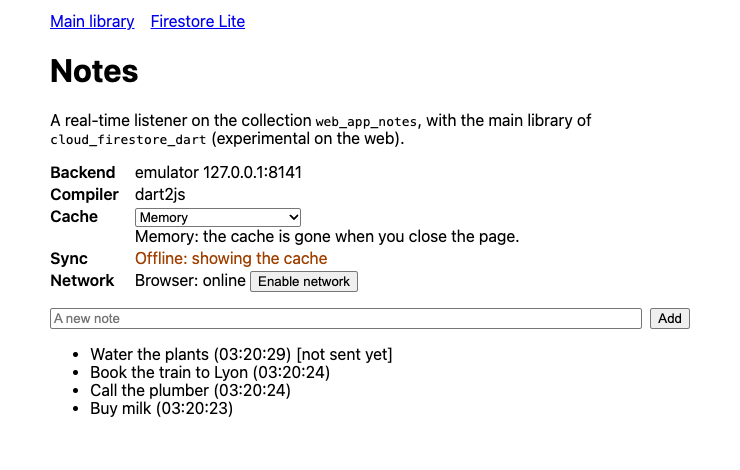
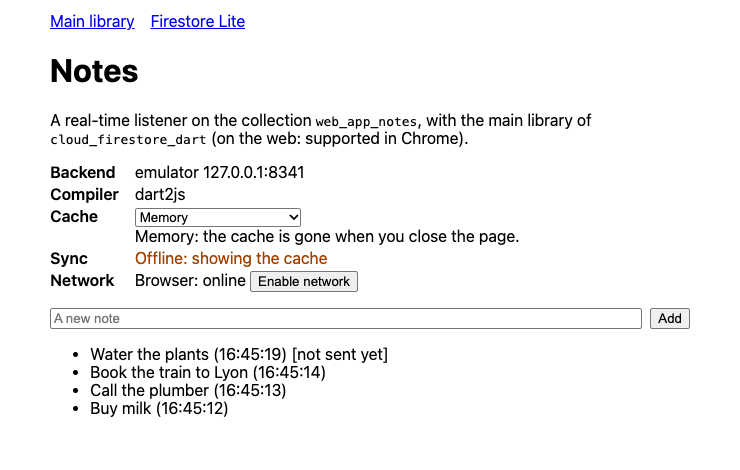
Add dark captures of the example screenshots (#56)
* Add dark captures of the example screenshots

flutter_notes and flutter_web_two_users get a darkTheme from the same
seed, web_app follows prefers-color-scheme. Each app screenshot has a
_dark capture of the same state, shown with <picture> in the docs.

* Re-capture web_app with the current page text

The page now says "on the web: supported in Chrome". Light and dark of
each state come from the same page, so they show the same notes.

---------

Changed region(s): [[0.2176, 0.7149, 0.5284, 0.8936], [0.2797, 0.2681, 0.6216, 0.3277], [0.373, 0.3574, 0.4351, 0.3872]]

diff --git a/examples/flutter_web_two_users/lib/main.dart b/examples/flutter_web_two_users/lib/main.dart
@@ -68,6 +68,10 @@ class TwoUsersApp extends StatelessWidget {
     return MaterialApp(
       title: 'Two users, one page',
       theme: ThemeData(colorSchemeSeed: Colors.indigo),
+      darkTheme: ThemeData(
+        colorSchemeSeed: Colors.indigo,
+        brightness: Brightness.dark,
+      ),
       home: Scaffold(
         appBar: AppBar(
           title: const Text('Two users, one page'),
@@ -312,7 +316,14 @@ class _ClientColumnState extends State<ClientColumn> {
             Text('First snapshot: ${_firstSnapshot ?? '...'}'),
             Text('First from the server: ${_firstFromServer ?? '...'}'),
             if (_error != null)
-              Text(_error!, style: TextStyle(color: Colors.red.shade700)),
+              Text(
+                _error!,
+                style: TextStyle(
+                  color: Theme.of(context).brightness == Brightness.dark
+                      ? Colors.red.shade200
+                      : Colors.red.shade700,
+                ),
+              ),
             const Divider(),
             Text('boards/shared', style: text.titleMedium),
             Text(

diff --git a/examples/web_app/web/styles.css b/examples/web_app/web/styles.css
@@ -8,3 +8,11 @@ form input { flex: 1; }
 .online { color: #186a3b; }
 .offline { color: #a04000; }
 #error { color: #b03a2e; }
+
+/* Dark when the system or browser asks for it; the browser draws the page and controls. */
+:root { color-scheme: light dark; }
+@media (prefers-color-scheme: dark) {
+  .online { color: #7bd88f; }
+  .offline { color: #f5a65b; }
+  #error { color: #ff8a80; }
+}

diff --git a/examples/flutter_notes/lib/main.dart b/examples/flutter_notes/lib/main.dart
@@ -69,6 +69,10 @@ class _NotesAppState extends State<NotesApp> {
     return MaterialApp(
       title: 'Notes',
       theme: ThemeData(colorSchemeSeed: Colors.indigo),
+      darkTheme: ThemeData(
+        colorSchemeSeed: Colors.indigo,
+        brightness: Brightness.dark,
+      ),
       home: NotesPage(firestore: widget.firestore),
     );
   }

diff --git a/examples/flutter_notes/README.md b/examples/flutter_notes/README.md
@@ -23,7 +23,7 @@ The notes are in the collection `notes`, as `{title, body, updatedAt}`.
 This is the app on macOS against a private emulator, with three notes. Look at the status line
 under the title:
 
-![The flutter_notes window on macOS: the status line says "Up to date" and three notes are listed, each with a delete button, and an add button at the bottom right](../../docs/images/examples/flutter_notes_online.png)
+<picture><source media="(prefers-color-scheme: dark)" srcset="../../docs/images/examples/flutter_notes_online_dark.png"><img src="../../docs/images/examples/flutter_notes_online.png" alt="The flutter_notes window on macOS: the status line says &quot;Up to date&quot; and three notes are listed, each with a delete button, and an add button at the bottom right"></picture>
 
 How `main()` wires the pieces together before `runApp`, and what the widgets use afterwards:
 
@@ -63,7 +63,7 @@ To see the offline behaviour, stop the emulator while the app runs: the status l
 This is the same window about 20 seconds after the emulator was stopped. Look at the status line:
 the notes stay, served from the SQLite cache.
 
-![The flutter_notes window with the status line "Offline: showing the saved notes" on a tinted background with a crossed-out cloud icon, and the same three notes](../../docs/images/examples/flutter_notes_offline.png)
+<picture><source media="(prefers-color-scheme: dark)" srcset="../../docs/images/examples/flutter_notes_offline_dark.png"><img src="../../docs/images/examples/flutter_notes_offline.png" alt="The flutter_notes window with the status line &quot;Offline: showing the saved notes&quot; on a tinted background with a crossed-out cloud icon, and the same three notes"></picture>
 
 Start the emulator again: within a few seconds (up to a minute, the client's backoff) the write
 is sent and the line says "Up to date". The emulator keeps its data in memory, so after a restart
@@ -96,7 +96,7 @@ project. To add sign-in, see [Authentication](../../docs/guides/authentication.m
 | Platform | Status |
 | --- | --- |
 | macOS | Built (`flutter build macos --debug`) and run against the emulator by hand: the listener, an edit offline, the sync when the emulator came back, the cache across a restart, and `terminate()` on Cmd-Q. Again with 0.2.0 and `cloud_firestore_dart_sqlite` 0.1.0 (`sqlite3` 3.5.2): the notes loaded, a note added and deleted in the app reached the emulator, the app quit from its menu, and started again with the emulator stopped it showed the notes from its SQLite file (a file first created by the 0.1 build with the copied opener) |
-| macOS, screenshots | Taken with the 0.1 build; the UI did not change in 0.2. `flutter build macos --debug --dart-define=EMULATOR_PORT=8141`, the built app run against a private emulator with three notes written through the emulator's REST API, captured with `screencapture -l` |
+| macOS, screenshots | Taken with the 0.1 build; the UI did not change in 0.2. `flutter build macos --debug --dart-define=EMULATOR_PORT=8141`, the built app run against a private emulator with three notes written through the emulator's REST API, captured with `screencapture -l`. The dark captures (`*_dark.png`, 2026-11-18): the same steps with `--dart-define=EMULATOR_PORT=8341` against `tool/start_private_emulator.sh 8341`, macOS in dark appearance (the app follows it through `darkTheme`), the window set to 640 by 566 points and captured with `screencapture -o -l` on a display at 1x, so the text is smaller than in the light captures; the offline one 25 seconds after the emulator was stopped |
 | Windows | Built with Flutter 3.47.8 on Windows 11 x64 (`flutter build windows --debug`, 84 seconds, no change to the `windows/` folder; `--release` built too, not run) and run against the emulator from an SSH session, driven through its widgets with Marionette: the notes loaded ("Up to date"), a note added in the dialog reached the emulator, and started again with the emulator stopped the app said "Offline: showing the saved notes" and showed it from its SQLite file in `%APPDATA%`. Nobody was logged on at the console, so Flutter could not draw the window (no Direct3D swap chain outside a desktop session) and no screenshot was taken |
 | Android, iOS, Linux | Not built and not run. The platform folders are those of `flutter create` with the changes below |
 

diff --git a/examples/web_app/README.md b/examples/web_app/README.md
@@ -13,7 +13,7 @@ Two pages share one collection, `web_app_notes`:
 This is the main page in headless Chrome against a private emulator, after three notes were
 added. Look at the **Sync** line: the list comes from the backend.
 
-![The main page of web_app: backend emulator, compiler dart2js, cache Memory, Sync "Online: in sync with the backend", and three notes in the list](../../docs/images/examples/web_app_online.png)
+<picture><source media="(prefers-color-scheme: dark)" srcset="../../docs/images/examples/web_app_online_dark.png"><img src="../../docs/images/examples/web_app_online.png" alt="The main page of web_app: backend emulator, compiler dart2js, cache Memory, Sync &quot;Online: in sync with the backend&quot;, and three notes in the list"></picture>
 
 The pieces of the main page, and where each request goes:
 
@@ -34,7 +34,7 @@ What to try:
   and the indicator says the list comes from the cache. Press **Enable network** and it is
   sent. The page then looked like this, with the button already showing **Enable network**:
 
-  ![The same page offline: Sync "Offline: showing the cache", the button reads "Enable network", and the newest note "Water the plants" is marked "[not sent yet]"](../../docs/images/examples/web_app_offline.png)
+  <picture><source media="(prefers-color-scheme: dark)" srcset="../../docs/images/examples/web_app_offline_dark.png"><img src="../../docs/images/examples/web_app_offline.png" alt="The same page offline: Sync &quot;Offline: showing the cache&quot;, the button reads &quot;Enable network&quot;, and the newest note &quot;Water the plants&quot; is marked &quot;[not sent yet]&quot;"></picture>
 
 - Pick **SQLite in IndexedDB** or **SQLite in OPFS**, then reload: the notes are on the page
   before the backend answers, also with the emulator stopped. A note written offline is sent
@@ -98,7 +98,7 @@ special headers are needed (the OPFS cache does not need cross-origin isolation)
 | File | What it is |
 | --- | --- |
 | `web/main.dart`, `web/lite.dart` | The two programs. |
-| `web/index.html`, `web/lite.html`, `web/styles.css` | The pages. |
+| `web/index.html`, `web/lite.html`, `web/styles.css` | The pages, light and dark through `prefers-color-scheme`. |
 | `web/bootstrap.js` | Starts `<app>.dart.js`, or `<app>.mjs` and `<app>.wasm` with `?compiler=wasm`. |
 | `lib/app_config.dart` | The `FirebaseOptions`, and the settings read from the address (`emulator`, `cache`). It imports neither Firestore library, so the Lite page stays small. |
 | `bin/serve.dart` | The static file server. |
@@ -159,10 +159,13 @@ has the numbers of a program without the opener.
   the backend unreachable, the read and the write fail with
   `unavailable: Request failed with error: TypeError: Failed to fetch`.
 - Not run against a real Firebase project, and not in other browsers.
-- The two screenshots above (taken with 0.1; the page did not change): built with
-  `dart compile js -O2` as described, served by
-  `bin/serve.dart`, opened in headless Chrome with `?emulator=127.0.0.1:8141` and driven over the
-  Chrome DevTools protocol (memory cache, Dart 3.12.2, Firestore emulator v1.22.0).
+- The screenshots above, light and dark (2026-11-18, with 0.2.0): built with
+  `dart compile js -O2` as described, served by `bin/serve.dart`, opened in headless Chrome
+  with `?emulator=127.0.0.1:8341` against a private emulator (`tool/start_private_emulator.sh
+  8341`) and driven over the Chrome DevTools protocol (memory cache, Dart 3.12.2, Firestore
+  emulator v1.22.0). Each state was captured twice from the same page, with
+  `prefers-color-scheme` emulated as light and as dark: the dark one shows the page's own dark
+  colours from `styles.css`.
 
 ## A real project
 

diff --git a/examples/flutter_web_two_users/README.md b/examples/flutter_web_two_users/README.md
@@ -15,12 +15,12 @@ The packages come from pub.dev (`cloud_firestore_dart` 0.2.0, `cloud_firestore_d
 The guest (right) was refused the lock, the owner (left) locked the board, and the guest's write
 to the locked board was refused too:
 
-![Two columns: alice@example.com (owner) and bob@example.com (guest), memory cache, both showing "Hello from bob #1", Locked, last by alice@example.com; the left column says "Locked", the right one "Refused: permissionDenied"](../../docs/images/examples/flutter_web_two_users_rules.png)
+<picture><source media="(prefers-color-scheme: dark)" srcset="../../docs/images/examples/flutter_web_two_users_rules_dark.png"><img src="../../docs/images/examples/flutter_web_two_users_rules.png" alt="Two columns: alice@example.com (owner) and bob@example.com (guest), memory cache, both showing &quot;Hello from bob #1&quot;, Locked, last by alice@example.com; the left column says &quot;Locked&quot;, the right one &quot;Refused: permissionDenied&quot;"></picture>
 
 After a reload with the SQLite cache: the first snapshot of each client came from its cache (about
 100 ms after `main()`), the first one from the server about 30 ms later:
 
-![The same page with "SQLite cache" selected after a reload: each column names its IndexedDB database, "First snapshot: 99 ms, from the cache", "First from the server: 129 ms", and the text "Hello from alice #1"](../../docs/images/examples/flutter_web_two_users_reload.png)
+<picture><source media="(prefers-color-scheme: dark)" srcset="../../docs/images/examples/flutter_web_two_users_reload_dark.png"><img src="../../docs/images/examples/flutter_web_two_users_reload.png" alt="The same page with &quot;SQLite cache&quot; selected after a reload: each column names its IndexedDB database, &quot;First snapshot: 99 ms, from the cache&quot;, &quot;First from the server: 129 ms&quot;, and the text &quot;Hello from alice #1&quot;"></picture>
 
 ## Run it
 
@@ -117,7 +117,10 @@ checked, with both builds:
   the document through the emulator's REST API: both columns showed the write within 105 ms of
   the thaw (dart2wasm build). Not tried: hours in the background, a laptop asleep.
 
-The screenshots are from the dart2wasm build. Only Chrome was tried.
+The screenshots are from the dart2wasm build. Only Chrome was tried. The dark captures
+(`*_dark.png`, 2026-11-18) are the same steps in headless Chrome with
+`--blink-settings=preferredColorScheme=0`, against `AUTH_PORT=9351 FIRESTORE_PORT=8352
+WEB_PORT=8355 ./run.sh --wasm`; the page follows the system scheme through `darkTheme`.
 
 With a temporary `pubspec_overrides.yaml` on the `cloud_firestore_dart_sqlite` 0.1.2 of the
 repository (not published yet when this was written): with the pinned `sqlite3` 3.3.4 the SQLite

diff --git a/examples/playground/README.md b/examples/playground/README.md
@@ -24,10 +24,10 @@ What you can do:
 The screenshot below is the page after the sample data, an edit, a new document, a delete and a
 where clause: look at the queue of five writes on the left and the snapshot events on the right.
 
-![The playground in a desktop browser: a live query on cities where country is JP with its Dart
-code, two result cards marked "pending write", the form to write a document, a queue of five
+<picture><source media="(prefers-color-scheme: dark)" srcset="../../docs/images/playground/playground-desktop-dark.png"><img src="../../docs/images/playground/playground-desktop-light.png" alt="The playground in a desktop browser: a live query on cities where country is JP with its Dart
+code, two result cards marked &quot;pending write&quot;, the form to write a document, a queue of five
 pending writes, a timeline of write and snapshot markers, and the list of snapshot events with
-isFromCache true and hasPendingWrites true](../../docs/images/playground/playground-desktop-light.png)
+isFromCache true and hasPendingWrites true"></picture>
 
 On a phone the panels stack in one column, here in the dark theme:
 
@@ -153,7 +153,9 @@ Measured with Dart 3.12.2 and `-O2`, with `cloud_firestore_dart` 0.2.0; gzipped 
   `/firebase_dart_sdk/`), adding a where clause on `null` (`isNull: false` in the code shown):
   the network log had only the page's own files (5 requests for the dart2js build, 6 for
   dart2wasm, all to the page's origin), and the console stayed empty. The two screenshots above
-  were taken then, from the dart2js build at 1280 and 390 pixels wide.
+  were taken then, from the dart2js build at 1280 and 390 pixels wide. The dark desktop capture
+  (`playground-desktop-dark.png`) repeats the same steps in headless Chrome with
+  `--blink-settings=preferredColorScheme=0` (2026-11-18).
 - With dart2wasm as the default (Dart 3.12.2, Chrome 157, headless, under
   `/firebase_dart_sdk/`): the page started the dart2wasm build; `?compiler=js` started dart2js;
   with WebAssembly turned off (`--js-flags=--jitless`) it fell back to dart2js and said so; with

diff --git a/docs/images/README.md b/docs/images/README.md
@@ -2,7 +2,7 @@
 
 The `.svg` files in this folder are written by hand: real text, a `viewBox`, `<title>` and
 `<desc>`, the system font stack, no scripts and no external references. The `.png` files are
-screenshots of real apps and are not covered here.
+screenshots of real apps: see [Screenshots](#screenshots).
 
 ## Light and dark
 
@@ -70,6 +70,24 @@ on a GitHub page (`#0d1117`, or `#212830` in dark dimmed) like the page's own bo
   `#ffffff` otherwise means the background.
 - Reference figures with a plain `![alt](...)` image. READMEs that pub.dev shows use the absolute
   `https://raw.githubusercontent.com/long1eu/firebase_dart_sdk/main/docs/images/...` URL.
+
+## Screenshots
+
+A screenshot of an app comes as two captures of the same state at the same size: a light one,
+`<name>.png`, and a dark one, `<name>_dark.png` (the playground: `playground-desktop-light.png`
+and `playground-desktop-dark.png`). The dark one shows the app's own dark theme (Flutter's
+`darkTheme`, or the page's `prefers-color-scheme` CSS), never a colour filter of the browser such
+as `--force-dark-mode`. The Markdown shows the pair with a `<picture>` element, which GitHub
+switches with the reader's theme:
+
+```html
+<picture><source media="(prefers-color-scheme: dark)" srcset="examples/web_app_online_dark.png"><img src="examples/web_app_online.png" alt="..."></picture>
+```
+
+A viewer without `<picture>` support shows the light capture. Each example's README says how its
+screenshots were taken. Web pages: headless Chrome with
+`--blink-settings=preferredColorScheme=0` for the dark capture (`=1` for light). The macOS app:
+the system in dark appearance, `screencapture -o -l <window id>`.
 
 ## Checks
 

diff --git a/docs/guides/flutter.md b/docs/guides/flutter.md
@@ -16,7 +16,7 @@ built for the web, read [A Flutter web app](web.md#a-flutter-web-app) too: the t
 This is the example app on macOS against the emulator. The status line under the title comes
 from the snapshot metadata ([An offline indicator from the metadata](#an-offline-indicator-from-the-metadata)):
 
-![The flutter_notes window on macOS: the status line says "Up to date" and three notes are listed, each with a delete button](../images/examples/flutter_notes_online.png)
+<picture><source media="(prefers-color-scheme: dark)" srcset="../images/examples/flutter_notes_online_dark.png"><img src="../images/examples/flutter_notes_online.png" alt="The flutter_notes window on macOS: the status line says &quot;Up to date&quot; and three notes are listed, each with a delete button"></picture>
 
 The Dart blocks of this guide are fenced as `dart flutter`: they import Flutter or plugins, so
 the snippet test of the package, which compiles the other guides, skips them. They are checked

diff --git a/docs/guides/web.md b/docs/guides/web.md
@@ -13,7 +13,7 @@ with two signed-in users side by side.
 memory cache, so you can try queries, writes and listeners in a page that needs no backend. This is its main page in headless Chrome with
 the network turned off: look at the **Sync** line and at the note marked `[not sent yet]`.
 
-![The web_app example offline: Sync "Offline: showing the cache", an "Enable network" button, and the newest note marked "[not sent yet]" above three sent notes](../images/examples/web_app_offline.png)
+<picture><source media="(prefers-color-scheme: dark)" srcset="../images/examples/web_app_offline_dark.png"><img src="../images/examples/web_app_offline.png" alt="The web_app example offline: Sync &quot;Offline: showing the cache&quot;, an &quot;Enable network&quot; button, and the newest note marked &quot;[not sent yet]&quot; above three sent notes"></picture>
 
 ## A first page
 
